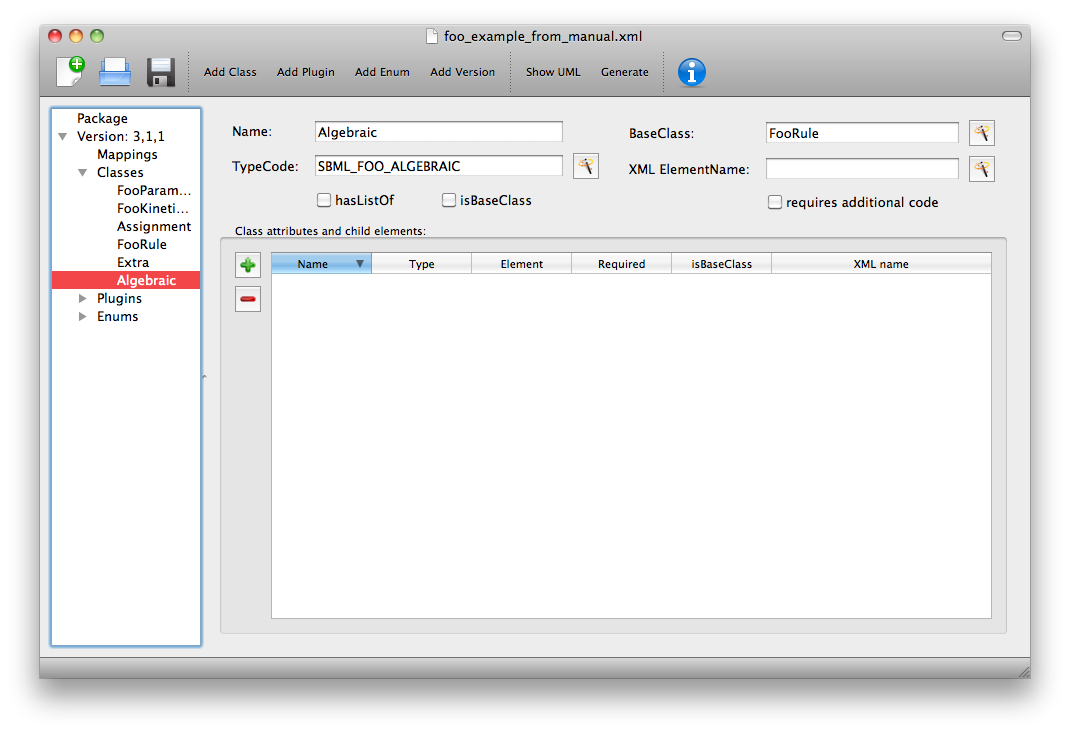
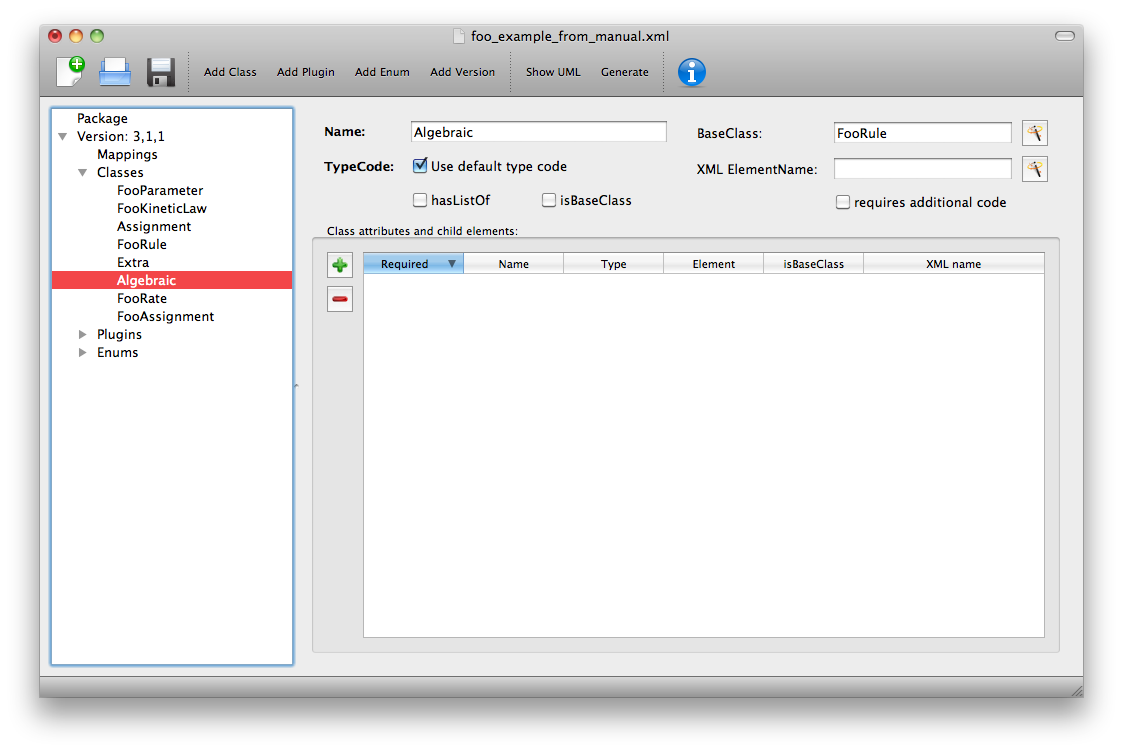
updating screenshots

Changed region(s): [[0.0308, 0.03, 0.9869, 0.9304], [0.9561, 0.8704, 0.9869, 0.9004], [0.9252, 0.03, 0.9561, 0.06]]

diff --git a/docs/src/source/defining_package.rst b/docs/src/source/defining_package.rst
@@ -253,9 +253,6 @@ Select ‘Add Class’ from the toolbar or the ‘Edit’ menu.
 
      The ‘Class’ sheet
 
-.. todo::
-   Update figure :num:`fig-add-class`
-
 NOTE: Using the ‘wand’ button will populate the adjacent field with the
 value of the field that conforms most closely to SBML and libSBML
 conventions.
@@ -510,9 +507,6 @@ SampledField class. Note
 it also includes an attribute to record the length of the array. This proved
 useful when using this sort of construct.
 
-.. todo::
-   Replace figure :num:`fig-array-sampledfield`
-
 .. _fig-array-sampledfield:
 .. figure:: ../screenshots/deviser-array-sampledfield.png
 
@@ -556,9 +550,6 @@ following field values:
 
 The enumeration is declared fully by adding an
 enumeration to the package description (see `Add enum information`_).
-
-.. todo::
-   Remove array from this figure :num:`fig-array-enum`
 
 .. _fig-array-enum:
 .. figure:: ../screenshots/deviser-array-enum.png
@@ -930,8 +921,6 @@ Example 1 - Adding a class with no containing ListOf
 
 Here we define the KineticLaw class for our imaginary package ‘foo’.
 
-.. todo::
-   Update figure
 
 .. _fig-foo-kl:
 .. figure:: ../screenshots/deviser-foo-kl.png
@@ -1033,9 +1022,6 @@ Example 3 – Adding a base class and derived classes
 Here we define a class that will be used as a base class for others (see
 Figure :num:`fig-foo-rule`).
 
-.. todo::
-   Update figure 
-
 .. _fig-foo-rule:
 .. figure:: ../screenshots/deviser-foo-rule.png
 
@@ -1052,9 +1038,6 @@ Here we have specified that the ListOfFooRules may contain objects of
 type Assignment or Algebraic. We specify Algebraic as a new class in
 Figure :num:`fig-foo-algebraic` and Assignment in Figure :num:`fig-foo-assignment`.
 
-.. todo::
-   Update figure 
-
 
 .. _fig-foo-algebraic:
 .. figure:: ../screenshots/deviser-foo-algebraic.png
@@ -1063,8 +1046,6 @@ Figure :num:`fig-foo-algebraic` and Assignment in Figure :num:`fig-foo-assignmen
 
 Note that we have changed the BaseClass field to FooRule.
 
-.. todo::
-   Update figure 
 
 .. _fig-foo-assignment:
 .. figure:: ../screenshots/deviser-foo-assignment.png
@@ -1272,10 +1253,6 @@ we specify that the Model will have a required boolean attribute
 ‘useFoo’ from the foo package (Figure :num:`fig-plugin-model`). Note that it is not necessary
 to specify child elements that originate in the package being defined
 as these that have already been listed as **Child classes**.
-
-.. todo::
-   Change figure :num:`fig-plugin-model`
-
 
 .. _fig-plugin-model:
 .. figure:: ../screenshots/deviser-plugin-model.png

diff --git a/docs/src/source/getting_started.rst b/docs/src/source/getting_started.rst
@@ -195,9 +195,6 @@ Settings used here will be saved and persist between sessions.
 Deviser Settings
 ~~~~~~~~~~~~~~~~~
 
-.. todo::
-    Replace screenshot
-
 .. _fig-preferences:
 .. figure:: ../screenshots/deviser-preferences.png
 
@@ -285,9 +282,6 @@ The fields requested are:
 User Defined Types
 ~~~~~~~~~~~~~~~~~~
 
-.. todo::
-    Replace screenshot
-
 .. _fig-user-types:
 .. figure:: ../screenshots/deviser-add-type.png
 
@@ -317,3 +311,8 @@ compilation.
 
     Code generated for an attribute named 'P' of user defined type 'PType'.
 
+Misc
+~~~~~
+
+.. todo:
+    add section on colour selection
